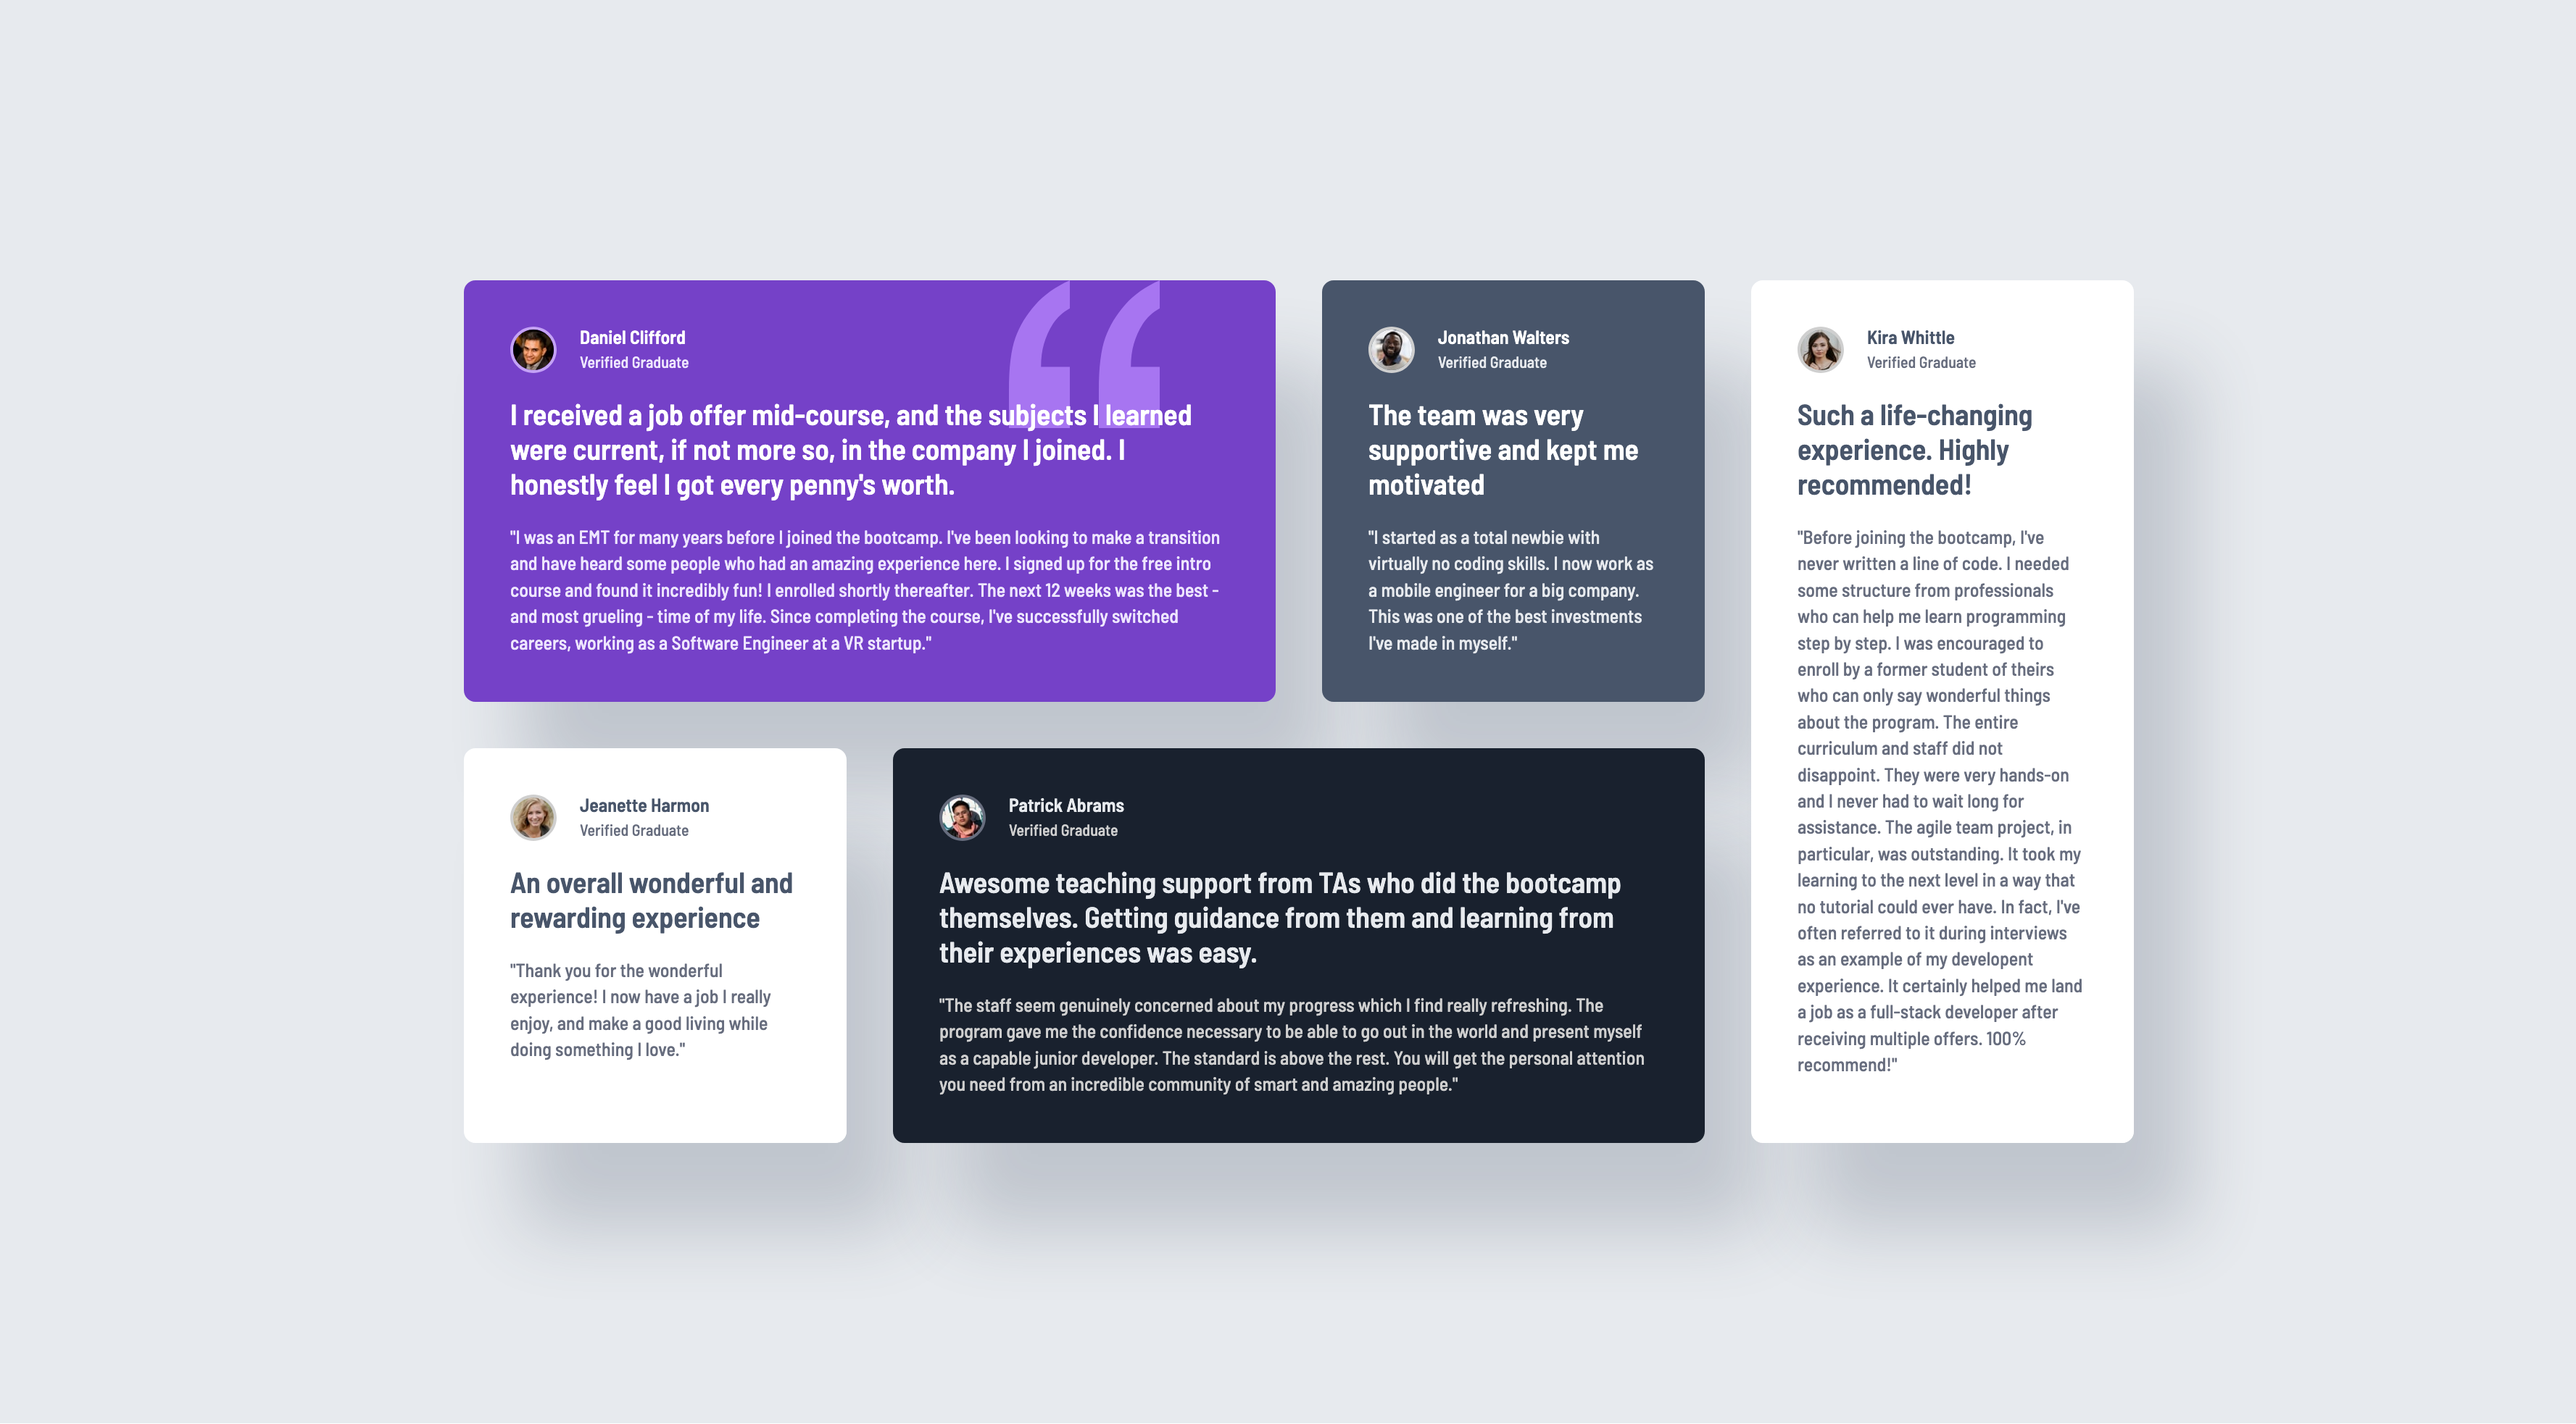
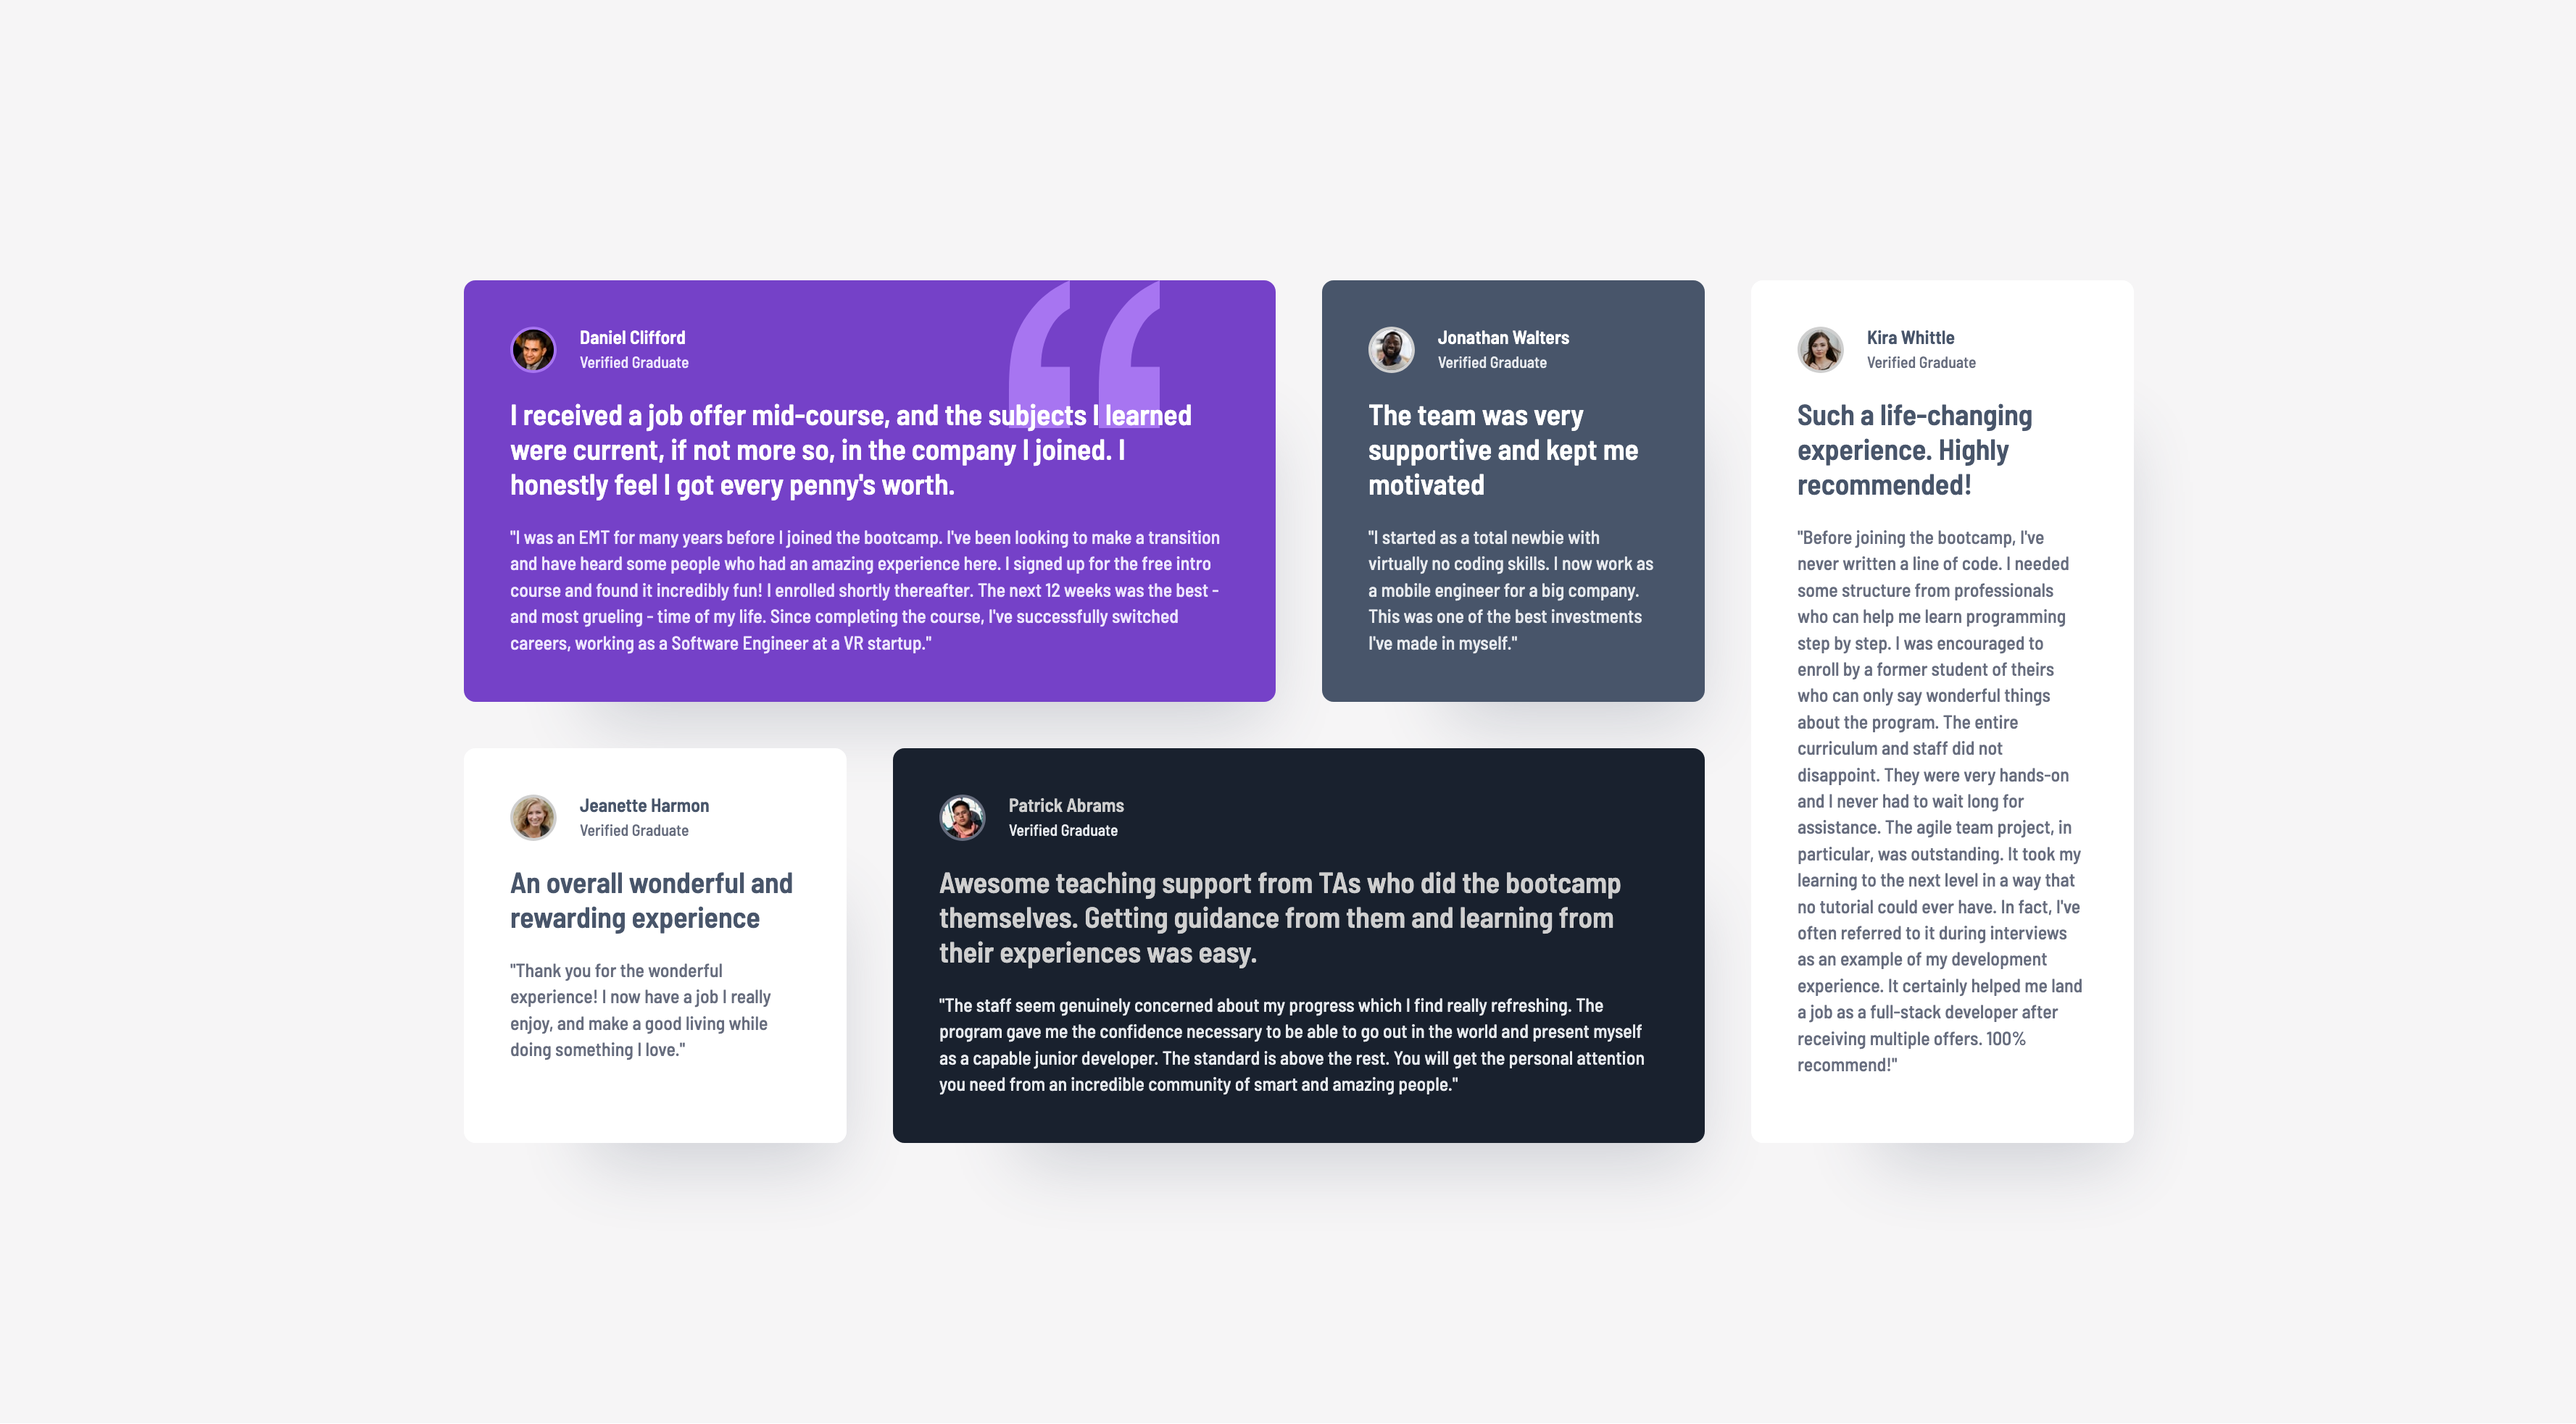
update styles, solution, and README.md

Changed region(s): [[0.1874, 0.2482, 0.8745, 0.8998], [0.3748, 0.5585, 0.4373, 0.5895]]

diff --git a/styles.css b/styles.css
@@ -3,6 +3,7 @@
   --color-black: hsl(0, 0%, 7%);
   --color-dark-blue: hsl(219, 29%, 14%);
   --color-white: hsl(0, 0%, 100%);
+  --color-white-bg: hsl(300, 5.26%, 96.27%);
   --color-grey-100: hsl(214, 17%, 92%);
   --color-grey-200: hsl(0, 0%, 81%);
   --color-grey-400: hsl(224, 10%, 45%);
@@ -18,13 +19,9 @@
   --line-height-base: 1.4;
   /* Spacing */
   --spacing-50: 0.25rem;
-  --spacing-100: 0.5rem;
   --spacing-200: 1rem;
-  --spacing-300: 1.5rem;
   --spacing-400: 2rem;
-  --spacing-500: 2.5rem;
   --spacing-700: 3.5rem;
-  --spacing-800: 4rem;
   --spacing-1000: 5rem;
   /* Border radius */
   --radius-base: 0.5rem;
@@ -42,7 +39,7 @@
 }
 
 html {
-  background-color: var(--color-grey-100);
+  background-color: var(--color-white-bg);
   color: var(--color-white);
   font: var(--font-weight-base) var(--font-size-base) / var(--line-height-base)
     var(--font-family-base);
@@ -189,6 +186,7 @@ body {
 @media (min-width: 48rem) {
   .testimonials-container {
     grid-template-columns: repeat(2, 1fr);
+    grid-template-rows: repeat(4, max-content);
     grid-template-areas:
       'daniel daniel'
       'jonathan jeanette'
@@ -221,6 +219,7 @@ body {
 @media (min-width: 90rem) {
   .testimonials-container {
     grid-template-columns: repeat(4, 1fr);
+    grid-template-rows: repeat(2, max-content);
     grid-template-areas:
       'daniel daniel jonathan kira'
       'jeanette patrick patrick kira';

diff --git a/README.md b/README.md
@@ -25,34 +25,43 @@ This project demonstrates a testimonials grid section featuring five student tes
   - CSS Grid Layout
   - Flexbox Layout
   - Mobile-first workflow
-- **Google Fonts** - [Barlow Semi Condensed](https://fonts.googleapis.com/css2?family=Barlow+Semi+Condensed:wght@500;600&display=swap)
+- **Google Fonts** - [Barlow Semi Condensed](https://fonts.google.com/specimen/Barlow+Semi+Condensed)
 
 ### What I Learned
 
 This project reinforced several key concepts:
 
-**Advanced CSS Grid Layouts:** Created a complex testimonial grid using CSS Grid with precise positioning:
+**CSS Grid Layouts:** Created a responsive testimonial grid using CSS Grid with named template areas:
 
 ```css
-.grid-container {
+.testimonials-container {
   display: grid;
   grid-template-columns: repeat(4, 1fr);
-  gap: 1.5rem;
+  grid-template-areas:
+    'daniel daniel jonathan kira'
+    'jeanette patrick patrick kira';
 }
 
-.item-a {
-  grid-column: 1 / 3;
+.testimonial-daniel {
+  grid-area: daniel;
 }
 ```
 
-**CSS Custom Properties:** Organized design tokens using CSS variables for maintainability:
+**CSS Custom Properties:** Organized color, typography, and spacing values using CSS variables for maintainability:
 
 ```css
 :root {
-  --color-moderate-violet: hsl(263, 55%, 52%);
-  --color-very-dark-grayish-blue: hsl(217, 19%, 35%);
-  --color-very-dark-blackish-blue: hsl(219, 29%, 14%);
+  /* Colors */
+  --color-purple-500: hsl(263, 55%, 52%);
+  --color-grey-500: hsl(217, 19%, 35%);
+  --color-dark-blue: hsl(219, 29%, 14%);
   --color-white: hsl(0, 0%, 100%);
+  /* Spacing */
+  --spacing-200: 1rem;
+  --spacing-400: 2rem;
+  /* Typography */
+  --font-weight-base: 500;
+  --font-weight-semi-bold: 600;
 }
 ```
 
@@ -60,9 +69,22 @@ This project reinforced several key concepts:
 
 ```css
 @media (min-width: 48rem) {
-  .grid-container {
-    display: grid;
+  .testimonials-container {
+    grid-template-columns: repeat(2, 1fr);
+    grid-template-areas:
+      'daniel daniel'
+      'jonathan jeanette'
+      'patrick patrick'
+      'kira kira';
+  }
+}
+
+@media (min-width: 90rem) {
+  .testimonials-container {
     grid-template-columns: repeat(4, 1fr);
+    grid-template-areas:
+      'daniel daniel jonathan kira'
+      'jeanette patrick patrick kira';
   }
 }
 ```
@@ -71,11 +93,11 @@ This project reinforced several key concepts:
 
 Areas I want to focus on in future projects:
 
-- Mastering more complex CSS Grid patterns and asymmetric layouts
-- Exploring CSS subgrid for nested grid layouts
-- Learning JavaScript fundamentals to add interactivity
-- Implementing CSS animations for card hover effects
-- Deepening accessibility knowledge with ARIA patterns
+- Exploring more complex CSS Grid patterns and asymmetric layouts
+- Learning CSS subgrid for nested grid layouts
+- Adding JavaScript interactivity to components
+- Implementing CSS animations and transitions for better UX
+- Improving accessibility with proper ARIA attributes and keyboard navigation
 
 ### Useful Resources
 
